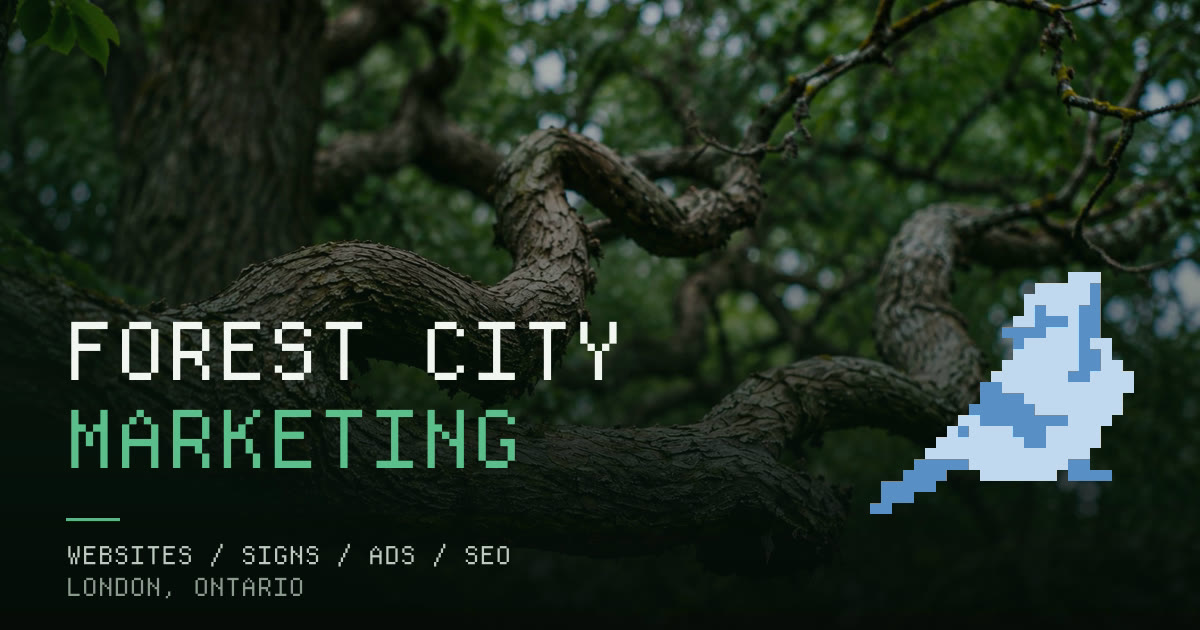
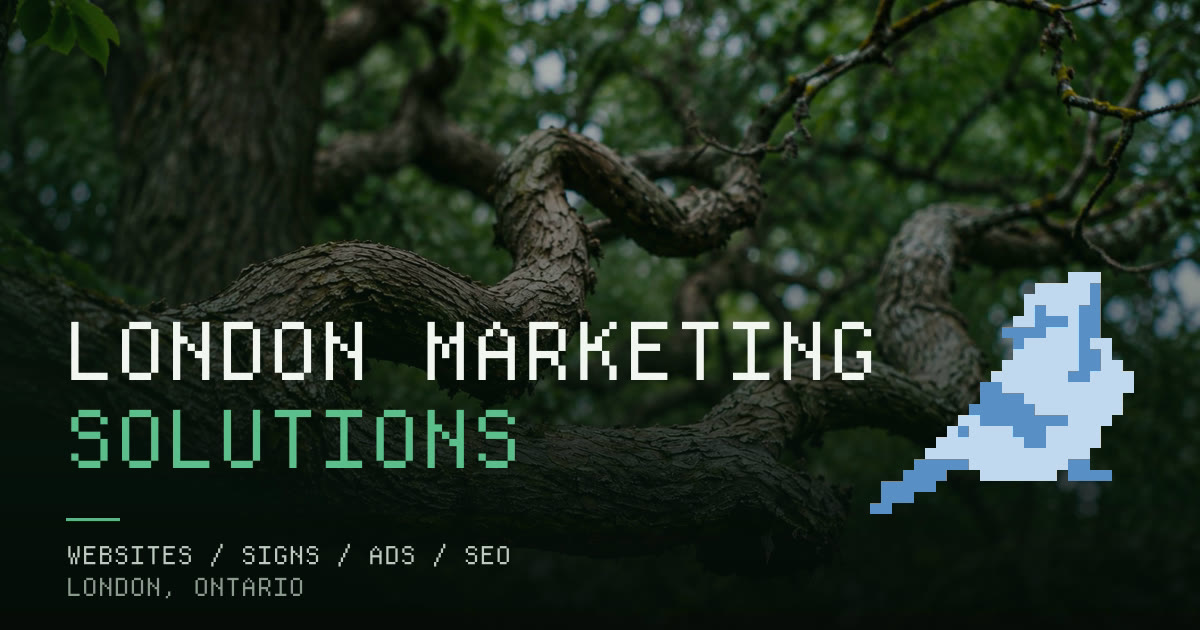
Rebrand to London Marketing Solutions, and fix #top
The trading name now matches the canonical domain. Forest City Marketing
is gone from the pages, with one deliberate exception: "Built in the
Forest City" stays in each footer, because that is London's nickname and
not the business name. The email and the forestcity.marketing redirect
are untouched.

Still no "Ltd." anywhere. The only mention left is the "who is asking"
clause in privacy.html, which says the business is in the process of
being incorporated as one — a statement about a pending filing, not a
claim that the company exists. The SWAP ON INCORPORATION comments are
updated to match the new name.

#top pointed at the hero, which begins below the sticky header, so it
landed 73px down and left a header's worth of page above the viewport.
The anchor now sits at the document origin instead.

The name is five characters longer than the one it replaced, which
overflowed the nav on small screens: at 360px the wordmark touched the
hamburger and at 320px the whole page scrolled sideways. Adds a fourth
rung to the wordmark's 24/21/18 ladder.

og.jpg is regenerated from make-og.sh, so the link preview reads the new
name rather than contradicting its own alt text.

diff --git a/index.html b/index.html
@@ -3,15 +3,15 @@
 <head>
 <meta charset="utf-8">
 <meta name="viewport" content="width=device-width, initial-scale=1">
-<title>Forest City Marketing — Websites, signs, ads &amp; SEO in London, Ontario</title>
+<title>London Marketing Solutions — Websites, signs, ads &amp; SEO in London, Ontario</title>
 <meta name="description" content="One shop for your brand's image, on and off the web. Websites and hosting, lawn and job-site signs, Google Ads, SEO and social — built and run from London, Ontario.">
 <link rel="canonical" href="https://londonmarketingsolutions.ca/">
 
-<meta property="og:title" content="Forest City Marketing — on and off the web">
+<meta property="og:title" content="London Marketing Solutions — on and off the web">
 <meta property="og:description" content="Websites, hosting, signs, Google Ads, SEO and social for London businesses. Bundle the lot and it runs on one invoice, with one number to call.">
 <meta property="og:type" content="website">
 <meta property="og:url" content="https://londonmarketingsolutions.ca/">
-<meta property="og:site_name" content="Forest City Marketing">
+<meta property="og:site_name" content="London Marketing Solutions">
 <meta property="og:locale" content="en_CA">
 <!-- Built by assets/img/src/make-og.sh, not by hand. The branch photo the
      hero uses, the same veil grade over it, the brand mark read straight out
@@ -20,7 +20,7 @@
 <meta property="og:image" content="https://londonmarketingsolutions.ca/assets/img/og.jpg">
 <meta property="og:image:width" content="1200">
 <meta property="og:image:height" content="630">
-<meta property="og:image:alt" content="Forest City Marketing — a pixel blue jay perched on an oak branch, over the words Forest City Marketing, London, Ontario.">
+<meta property="og:image:alt" content="London Marketing Solutions — a pixel blue jay perched on an oak branch, over the words London Marketing Solutions, London, Ontario.">
 <meta name="twitter:card" content="summary_large_image">
 
 <!-- Structured data. The checker further down this page scores other people
@@ -34,14 +34,15 @@
      treats areaServed as the signal that matters.
 
      SWAP ON INCORPORATION: add "legalName": "London Marketing Solutions Ltd."
-     once the certificate is in hand. "name" stays Forest City Marketing —
-     that is the trading name and what people search for. -->
+     once the certificate is in hand. "name" stays London Marketing Solutions,
+     without the "Ltd." — that is the trading name and what people search
+     for, and the corporation does not exist yet. -->
 <script type="application/ld+json">
 {
   "@context": "https://schema.org",
   "@type": "ProfessionalService",
   "@id": "https://londonmarketingsolutions.ca/#business",
-  "name": "Forest City Marketing",
+  "name": "London Marketing Solutions",
   "description": "Websites and hosting, lawn and job-site signs, Google Ads, SEO and social for businesses in London, Ontario — bundled onto one invoice with one number to call.",
   "url": "https://londonmarketingsolutions.ca/",
   "image": "https://londonmarketingsolutions.ca/assets/img/og.jpg",
@@ -86,12 +87,17 @@
 </head>
 <body>
 
+<!-- The brand links point here. This has to sit above .nav, not on the hero:
+     the hero starts below the sticky header, so scrolling it to the top of the
+     viewport left the header's worth of page still above you. -->
+<span id="top"></span>
+
 <a class="skip" href="#main">Skip to content</a>
 
 <!-- ─────────────────────────  NAV  ───────────────────────── -->
 <header class="nav" id="nav">
   <div class="wrap nav__inner">
-    <a class="brand" href="#top" aria-label="Forest City Marketing, home">
+    <a class="brand" href="#top" aria-label="London Marketing Solutions, home">
       <!-- jay-left.png, downsampled to 26 cells and split on luminance into
            two inks. Deliberately NOT dithered, unlike the hero: at 26 cells
            the error diffusion is wider than the bird's features and the
@@ -121,7 +127,7 @@
           <rect x="3" y="21" width="5" height="1"/><rect x="3" y="22" width="3" height="1"/><rect x="2" y="23" width="2" height="1"/>
         </g>
       </svg>
-      <span class="brand__word">Forest City Marketing</span>
+      <span class="brand__word">London Marketing Solutions</span>
     </a>
 
     <nav class="nav__links" aria-label="Primary">
@@ -149,7 +155,7 @@
 <main id="main">
 
 <!-- ─────────────────────────  HERO  ───────────────────────── -->
-<section class="hero" id="top">
+<section class="hero">
   <!-- The branch is a photograph and stays one: only the bird is dithered.
        bird.js reads this img's natural size and its object-position to work
        out where the perch point on the limb has landed, so the jay keeps
@@ -788,7 +794,7 @@
             <rect x="3" y="21" width="5" height="1"/><rect x="3" y="22" width="3" height="1"/><rect x="2" y="23" width="2" height="1"/>
           </g>
         </svg>
-        <span class="brand__word">forest city</span>
+        <span class="brand__word">london marketing</span>
       </a>
       <p>Websites, signs, ads and search for London business.</p>
       <p class="foot__where">Built in the Forest City.</p>
@@ -817,14 +823,14 @@
   </div>
   <div class="wrap foot__base">
     <!-- SWAP ON INCORPORATION: the moment the certificate for London Marketing
-         Solutions Ltd. is in hand, this line becomes
-           &copy; <span id="year">2026</span> London Marketing Solutions Ltd.,
-           operating as Forest City Marketing. <a href="privacy.html">Privacy</a>
+         Solutions Ltd. is in hand, this line takes the "Ltd." —
+           &copy; <span id="year">2026</span> London Marketing Solutions Ltd.
+           <a href="privacy.html">Privacy</a>
          and the same swap happens in the "who is asking" clause of
          privacy.html. Until then do NOT put "Ltd." on the page: naming a
          corporation that does not exist yet is the one thing here that could
          actually bite. Add the HST number alongside it once you register. -->
-    <p>&copy; <span id="year">2026</span> Forest City Marketing. <a href="privacy.html">Privacy</a></p>
+    <p>&copy; <span id="year">2026</span> London Marketing Solutions. <a href="privacy.html">Privacy</a></p>
     <p class="foot__mono">You control your domain, your accounts and your data. Always.</p>
   </div>
 </footer>

diff --git a/privacy.html b/privacy.html
@@ -3,16 +3,16 @@
 <head>
 <meta charset="utf-8">
 <meta name="viewport" content="width=device-width, initial-scale=1">
-<title>Privacy — Forest City Marketing</title>
-<meta name="description" content="What Forest City Marketing collects when you use this site, why, who else sees it, and how to get it back or deleted. Plain English, no cookies, no tracking.">
+<title>Privacy — London Marketing Solutions</title>
+<meta name="description" content="What London Marketing Solutions collects when you use this site, why, who else sees it, and how to get it back or deleted. Plain English, no cookies, no tracking.">
 <meta name="robots" content="index,follow">
 <link rel="canonical" href="https://londonmarketingsolutions.ca/privacy.html">
 
-<meta property="og:title" content="Privacy — Forest City Marketing">
+<meta property="og:title" content="Privacy — London Marketing Solutions">
 <meta property="og:description" content="What we collect, why, who else sees it, and how to get it back. No cookies, no analytics, no tracking.">
 <meta property="og:type" content="article">
 <meta property="og:url" content="https://londonmarketingsolutions.ca/privacy.html">
-<meta property="og:site_name" content="Forest City Marketing">
+<meta property="og:site_name" content="London Marketing Solutions">
 <meta property="og:locale" content="en_CA">
 <meta property="og:image" content="https://londonmarketingsolutions.ca/assets/img/og.jpg">
 <meta property="og:image:width" content="1200">
@@ -31,7 +31,7 @@
 
 <header class="nav" id="nav">
   <div class="wrap nav__inner">
-    <a class="brand" href="index.html" aria-label="Forest City Marketing, home">
+    <a class="brand" href="index.html" aria-label="London Marketing Solutions, home">
       <svg class="brand__mark" viewBox="0 0 26 27" aria-hidden="true" shape-rendering="crispEdges">
         <g fill="var(--jay-mid)">
           <rect x="20" y="2" width="3" height="1"/><rect x="17" y="3" width="5" height="1"/><rect x="16" y="4" width="6" height="1"/>
@@ -57,7 +57,7 @@
           <rect x="3" y="21" width="5" height="1"/><rect x="3" y="22" width="3" height="1"/><rect x="2" y="23" width="2" height="1"/>
         </g>
       </svg>
-      <span class="brand__word">Forest City Marketing</span>
+      <span class="brand__word">London Marketing Solutions</span>
     </a>
 
     <nav class="nav__links" aria-label="Primary">
@@ -100,16 +100,18 @@
 
     <h2>who is asking</h2>
     <!-- SWAP ON INCORPORATION: when the certificate for London Marketing
-         Solutions Ltd. issues, this paragraph becomes "Forest City Marketing is
-         an operating name of London Marketing Solutions Ltd., an Ontario
-         corporation (OCN 0000000)." Nothing else on this page changes. Do not
-         name the company as existing before the certificate is in hand. -->
+         Solutions Ltd. issues, this paragraph becomes "London Marketing
+         Solutions is an operating name of London Marketing Solutions Ltd., an
+         Ontario corporation (OCN 0000000)." Nothing else on this page changes.
+         Do not name the company as existing before the certificate is in hand:
+         the sentence below says "in the process of being incorporated"
+         precisely because that is what is still true. -->
     <p>
-      Forest City Marketing is a marketing business in London, Ontario. It is in
-      the process of being incorporated as <strong>London Marketing Solutions
-      Ltd.</strong>; until that certificate issues, the business behind this site
-      is its owner personally, and either way the same person reads your enquiry
-      and is answerable for it.
+      London Marketing Solutions is a marketing business in London, Ontario. It
+      is in the process of being incorporated as <strong>London Marketing
+      Solutions Ltd.</strong>; until that certificate issues, the business
+      behind this site is its owner personally, and either way the same person
+      reads your enquiry and is answerable for it.
     </p>
     <p>
       We are governed by Canada's <em>Personal Information Protection and
@@ -337,7 +339,7 @@
             <rect x="3" y="21" width="5" height="1"/><rect x="3" y="22" width="3" height="1"/><rect x="2" y="23" width="2" height="1"/>
           </g>
         </svg>
-        <span class="brand__word">forest city</span>
+        <span class="brand__word">london marketing</span>
       </a>
       <p>Websites, signs, ads and search for London business.</p>
       <p class="foot__where">Built in the Forest City.</p>
@@ -365,7 +367,7 @@
     </nav>
   </div>
   <div class="wrap foot__base">
-    <p>&copy; <span id="year">2026</span> Forest City Marketing. <a href="privacy.html">Privacy</a></p>
+    <p>&copy; <span id="year">2026</span> London Marketing Solutions. <a href="privacy.html">Privacy</a></p>
     <p class="foot__mono">You control your domain, your accounts and your data. Always.</p>
   </div>
 </footer>

diff --git a/404.html b/404.html
@@ -3,15 +3,15 @@
 <head>
 <meta charset="utf-8">
 <meta name="viewport" content="width=device-width, initial-scale=1">
-<title>Not found — Forest City Marketing</title>
+<title>Not found — London Marketing Solutions</title>
 <meta name="description" content="That page is not here. The front page, the free SEO check and a way to reach us all are.">
 <meta name="robots" content="noindex,follow">
 
-<meta property="og:title" content="Not found — Forest City Marketing">
+<meta property="og:title" content="Not found — London Marketing Solutions">
 <meta property="og:description" content="That page is not here. The front page is.">
 <meta property="og:type" content="website">
 <meta property="og:url" content="https://londonmarketingsolutions.ca/">
-<meta property="og:site_name" content="Forest City Marketing">
+<meta property="og:site_name" content="London Marketing Solutions">
 <meta property="og:locale" content="en_CA">
 <meta property="og:image" content="https://londonmarketingsolutions.ca/assets/img/og.jpg">
 <meta property="og:image:width" content="1200">
@@ -30,7 +30,7 @@
 
 <header class="nav" id="nav">
   <div class="wrap nav__inner">
-    <a class="brand" href="/index.html" aria-label="Forest City Marketing, home">
+    <a class="brand" href="/index.html" aria-label="London Marketing Solutions, home">
       <svg class="brand__mark" viewBox="0 0 26 27" aria-hidden="true" shape-rendering="crispEdges">
         <g fill="var(--jay-mid)">
           <rect x="20" y="2" width="3" height="1"/><rect x="17" y="3" width="5" height="1"/><rect x="16" y="4" width="6" height="1"/>
@@ -56,7 +56,7 @@
           <rect x="3" y="21" width="5" height="1"/><rect x="3" y="22" width="3" height="1"/><rect x="2" y="23" width="2" height="1"/>
         </g>
       </svg>
-      <span class="brand__word">Forest City Marketing</span>
+      <span class="brand__word">London Marketing Solutions</span>
     </a>
 
     <nav class="nav__links" aria-label="Primary">
@@ -146,7 +146,7 @@
             <rect x="3" y="21" width="5" height="1"/><rect x="3" y="22" width="3" height="1"/><rect x="2" y="23" width="2" height="1"/>
           </g>
         </svg>
-        <span class="brand__word">forest city</span>
+        <span class="brand__word">london marketing</span>
       </a>
       <p>Websites, signs, ads and search for London business.</p>
       <p class="foot__where">Built in the Forest City.</p>
@@ -174,7 +174,7 @@
     </nav>
   </div>
   <div class="wrap foot__base">
-    <p>&copy; <span id="year">2026</span> Forest City Marketing. <a href="/privacy.html">Privacy</a></p>
+    <p>&copy; <span id="year">2026</span> London Marketing Solutions. <a href="/privacy.html">Privacy</a></p>
     <p class="foot__mono">You control your domain, your accounts and your data. Always.</p>
   </div>
 </footer>

diff --git a/assets/css/styles.css b/assets/css/styles.css
@@ -1,5 +1,5 @@
 /* ==============================================================
-   Forest City Marketing - London, Ontario
+   London Marketing Solutions - London, Ontario
    Palette + type tokens live here. Rebrand = edit this block.
    ============================================================== */
 
@@ -1161,6 +1161,20 @@ p:last-child{ margin-bottom:0; }
   .nav__inner{ gap:14px; }
   .nav__links a{ padding:7px 10px; }
   .nav__cta{ padding:10px 15px; }
+}
+
+/* A fourth rung, 15px, keeping the ladder on its even steps of three:
+   24 / 21 / 18 / 15. The name is the reason it needs one. "London
+   Marketing Solutions" is five characters longer than the name it
+   replaced, and at 18px it measures 240px where the old one measured 185.
+   That leaves 14px between the wordmark and the hamburger at 375px; at
+   360 they touch; at 320 the row is 331px wide and the whole PAGE scrolls
+   sideways, which is the one thing the nav must never do. 15px brings the
+   word back to 200 and the brand to 236, clear of the toggle all the way
+   down to 320. The breakpoint is 400 rather than 375 so the step lands
+   before the collision instead of on top of it. */
+@media (max-width:400px){
+  .brand__word{ font-size:15px; }
 }
 
 @media (max-width:760px){

diff --git a/README.md b/README.md
@@ -1,4 +1,4 @@
-# Forest City Marketing — marketing site
+# London Marketing Solutions — marketing site
 
 Static site. No build step, no dependencies, no framework.
 
@@ -90,9 +90,9 @@ issued for.
 Record (permanent / 301), not through Pages. GitHub Pages serves exactly one
 custom domain, so the second one can only ever be a registrar-level bounce.
 
-The brand is still Forest City Marketing and the **email has not moved** —
-`hello@forestcity.marketing` is still the address on the page, in the mailto
-fallback and in the SEO checker's error copy. The forwarder for it lives at
+The brand is now London Marketing Solutions, but the **email has not moved**
+— `hello@forestcity.marketing` is still the address on the page, in the
+mailto fallback and in the SEO checker's error copy. The forwarder for it lives at
 that domain's registrar. If mail ever moves to the `.ca`, it is a separate
 change in five files; search for `@forestcity.marketing` and you will find all
 of them.
